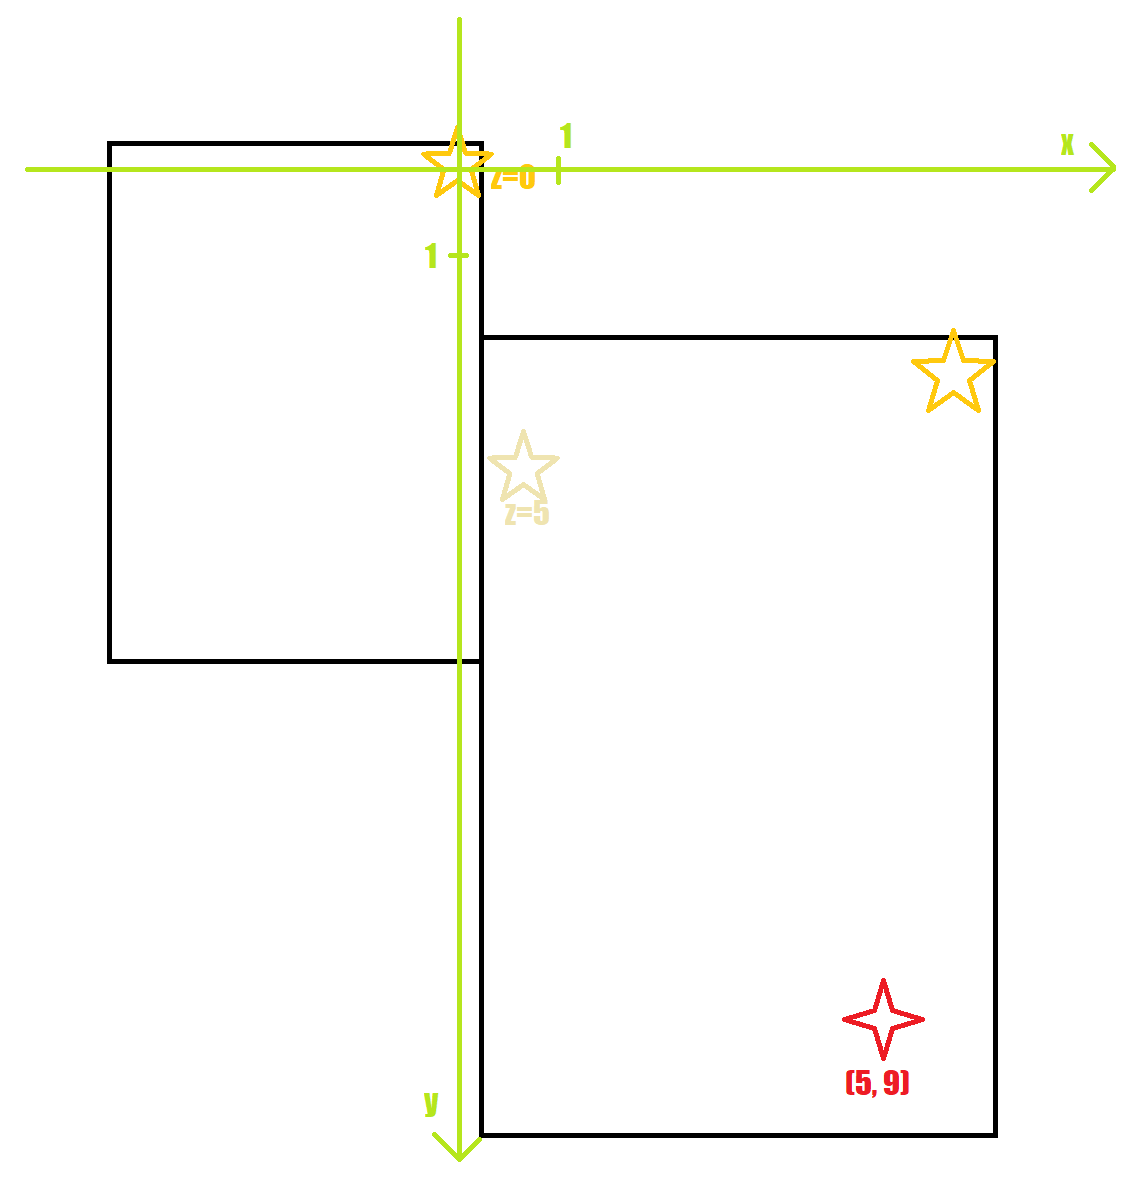
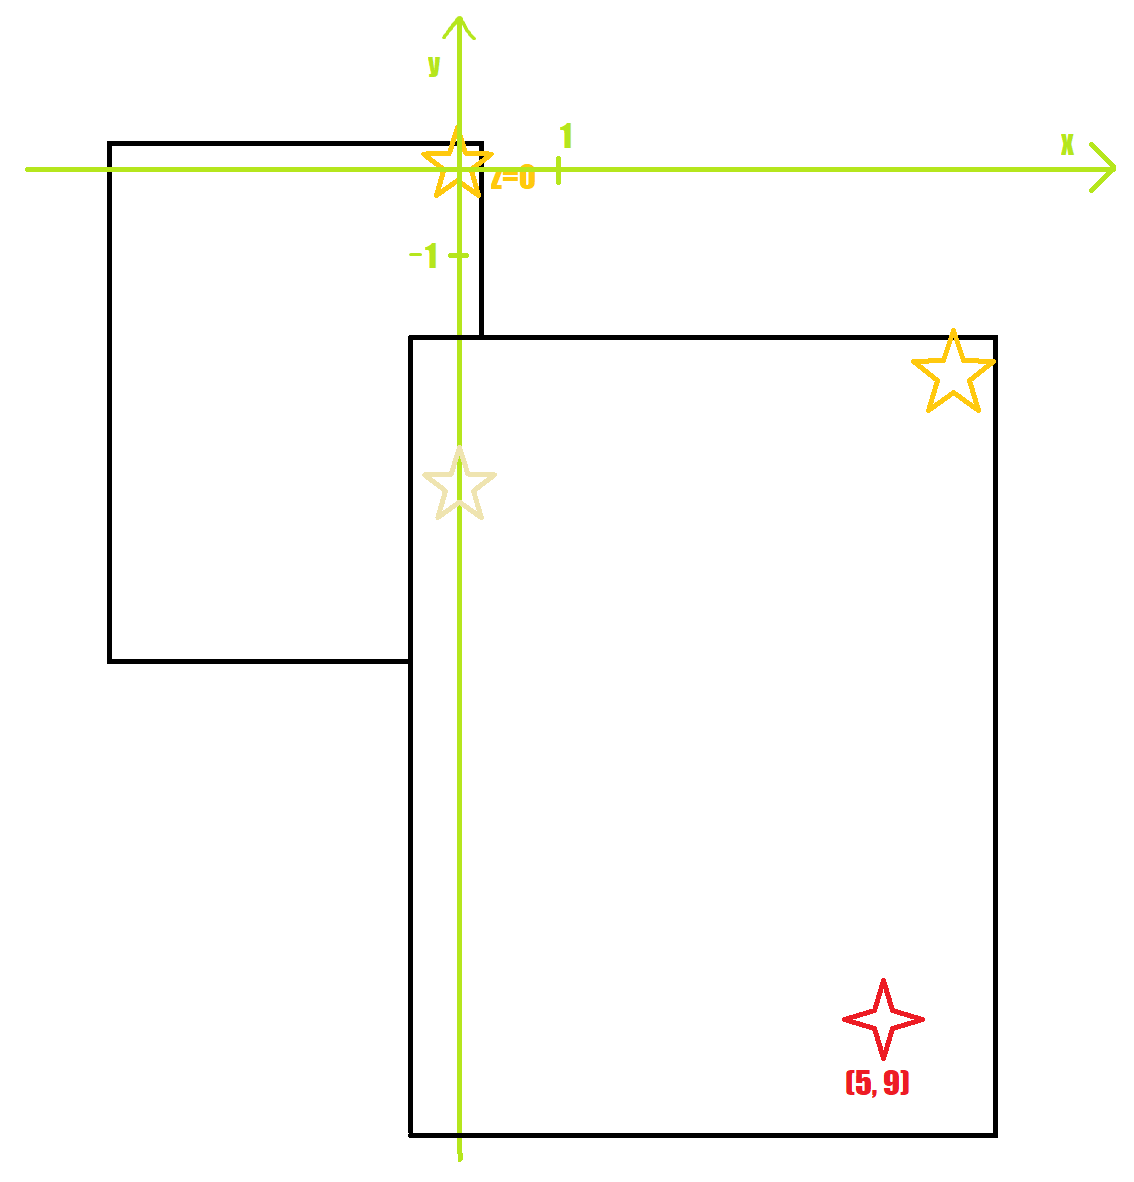
Add background image to plot

Changed region(s): [[0.3395, 0.2741, 0.4938, 0.9746], [0.3704, 0.0305, 0.4012, 0.0609]]

diff --git a/Lab6/Scanner/scanner.py b/Lab6/Scanner/scanner.py
@@ -13,8 +13,8 @@ from sniffer import Sniffer
 
 class Locations:
     _LUT = {
-        "4C:ED:FB:A6:00:BC" : Point(  1.01, -5.01),  # Vibenet_5G (boven)
-        "4C:ED:FB:A6:00:B8" : Point(  1.00, -5.00),  # Vibenet (boven)
+        "4C:ED:FB:A6:00:BC" : Point(  0.01, -3.01),  # Vibenet_5G (boven)
+        "4C:ED:FB:A6:00:B8" : Point(  0.00, -3.00),  # Vibenet (boven)
         "60:45:CB:59:F0:51" : Point(  0.00,  0.00),  # Vibenet (onder)     ~ 9m
         "60:45:CB:59:F0:54" : Point(  0.01,  0.01),  # Vibenet_5G (onder)
         "C8:D1:2A:89:C5:80" : Point(-20.00, -8.00),  # telenet-6736672
@@ -51,7 +51,7 @@ class Scanner:
         TRILAT_ESTIM     = 1
         TRILAT_ESTIM_ALL = 2
 
-    def __init__(self, mode=Mode.BASIC, interface="wlp2s0", force_iwlist=False):
+    def __init__(self, mode=Mode.BASIC, interface="wlp2s0", force_iwlist=False, bg_img=""):
         super().__init__()
         self.scanner = None
 
@@ -77,6 +77,23 @@ class Scanner:
         self.last_mode = Scanner.PositioningMode.TRILATERATION
         self.current_aps = tuple()
         self.current_location = Point(0, 0)
+
+        self.bg_img = None
+        self.bg_loc = None
+
+        if bg_img:
+            try:
+                fname, params     = bg_img.split(';', 1)
+                xloc, yloc, scale = map(float, params.split(';'))
+
+                self.bg_img = plt.imread(fname, format='png')
+
+                size_y, size_x = self.bg_img.shape[1], self.bg_img.shape[0]
+                left_bottom    = Point(-float(xloc) / scale, -float(yloc) / scale)
+                right_top      = Point(left_bottom.x + size_x / scale, left_bottom.y + size_y / scale)
+                self.bg_loc    = (left_bottom, right_top)
+            except Exception as e:
+                self._log(style(f"Could not parse background image: {bg_img}\n{e}", Colours.FG.RED))
 
     ###########################################################################
 
@@ -279,9 +296,13 @@ class Scanner:
                         arrowprops=dict(arrowstyle="->", connectionstyle="arc3,rad=.2") if single else \
                                    None)
 
-        plt.xlim(-50, 50)
-        plt.ylim(-50, 50)
-        plt.gca().set_aspect('equal', adjustable='box')
+        if self.bg_img is not None:
+            # (left, right, bottom, top)
+            plt.imshow(self.bg_img, zorder=0, extent=(self.bg_loc[0].x, self.bg_loc[1].x, self.bg_loc[0].y, self.bg_loc[1].y))
+
+        plt.xlim(-25, 25)
+        plt.ylim(-25, 25)
+        ax.set_aspect('equal', adjustable='box')
         plt.show()
 
     def _handle_clear(self):
@@ -339,8 +360,26 @@ if __name__ == "__main__":
         BASIC        = 0    # Basic for Unix and Windows based on signal strength %
         BASIC_IWLIST = 1    # Basic for Unix based on signal RSSI
         SNIFFING     = 2    # Advanced for Unix based on Beacon sniffer
-    """
 
-    mode = int(sys.argv[2]) if len(sys.argv) > 2 and sys.argv[1].lower() == "-m" else Scanner.Mode.SNIFFING
-    wifi_scanner = Scanner(mode=mode)
+        bg_img takes the form of:
+            "path;x_offset;y_offset;scale"
+        where (x_offset, y_offset) is the position of (0, 0) point (from left bottom corner)
+        and scale is the size in pixels of 1 unit.
+    """
+    # iface, mode, bg_img = "wlp2s0", Scanner.Mode.SNIFFING, "./locations/bram.png;10;10;180"
+    iface, mode, bg_img = "Wi-Fi", Scanner.Mode.BASIC, "./locations/william.png;478;973;101"
+
+    i = 1
+    while i < len(sys.argv):
+        if sys.argv[i] in ("-m", "--mode"):
+            mode = int(sys.argv[i+1])
+            i += 2
+        elif sys.argv[i] in ("-i", "--interface"):
+            bg_img = sys.argv[i+1]
+            i += 2
+        elif sys.argv[i] in ("-bg", "--background"):
+            bg_img = sys.argv[i+1]
+            i += 2
+
+    wifi_scanner = Scanner(mode=mode, interface=iface, bg_img=bg_img)
     wifi_scanner.start_interactive()

diff --git a/Lab6/README.md b/Lab6/README.md
@@ -4,6 +4,6 @@
 Make sure the following packages are installed:
 
 ```
-pip install access_points scapy colorama
+pip install scapy colorama
 ```
 
